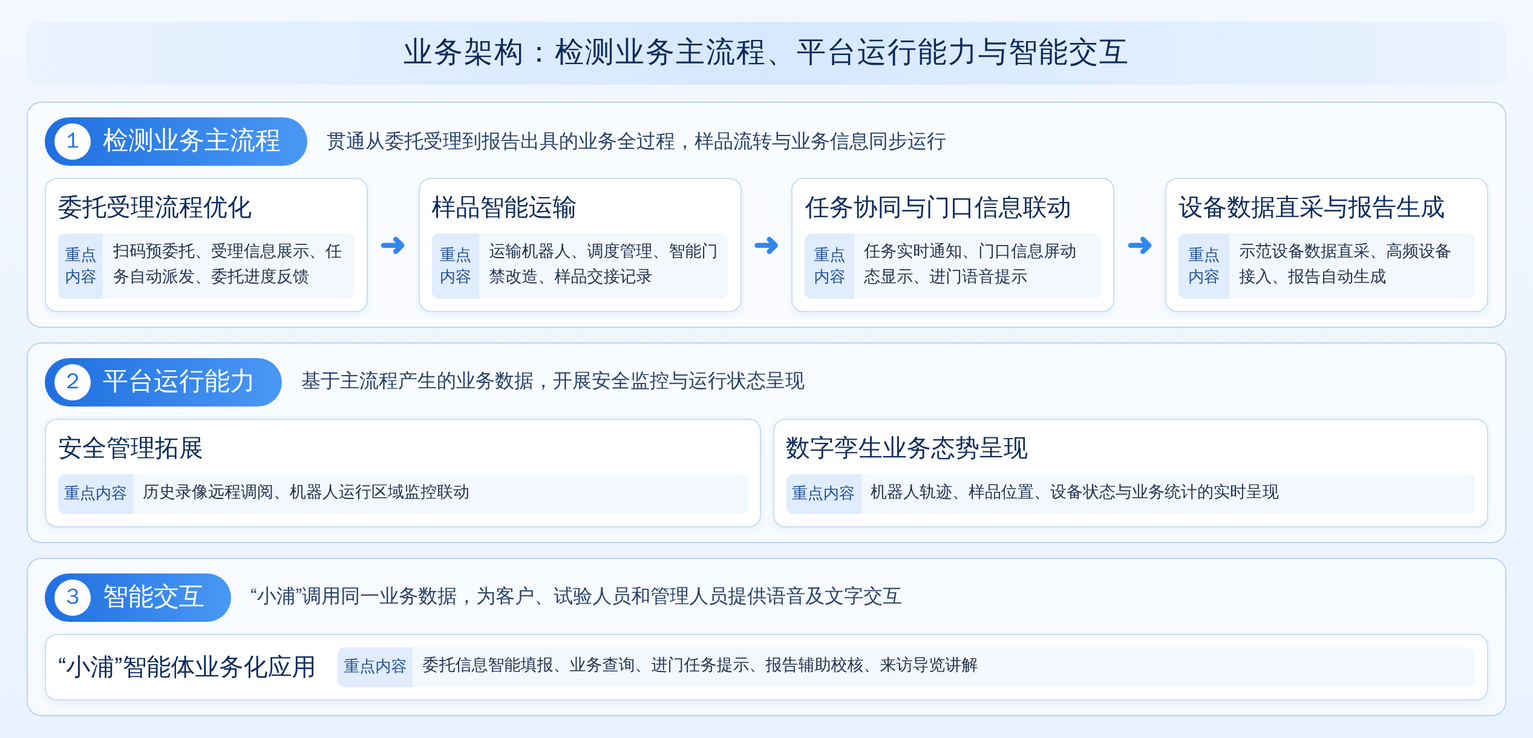
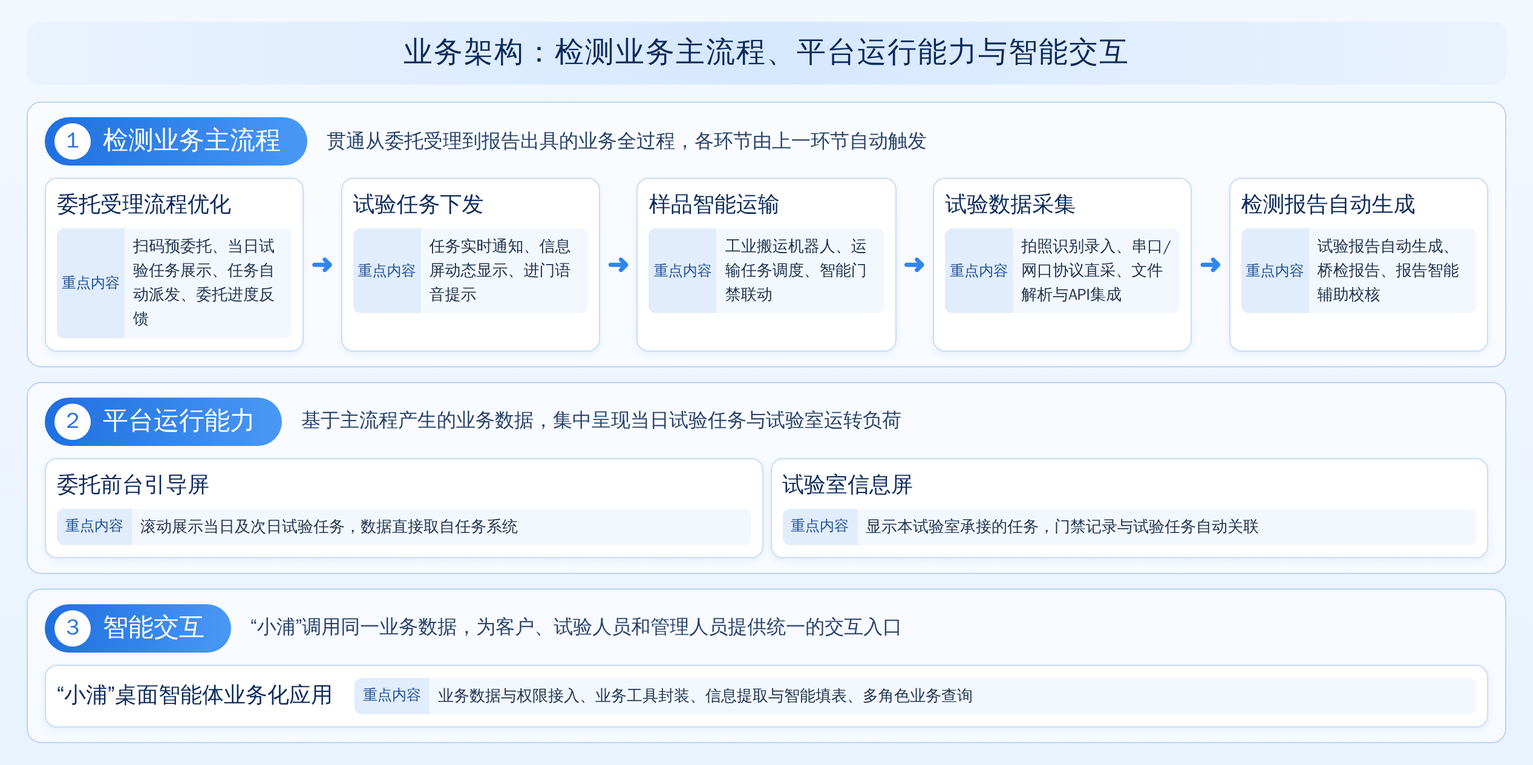
Pujiang plan v5: formal wording, report generation and Xiaopu expanded, X300B 100k each, new diagrams without digital twin, transport flow chart
Claude-Session: https://claude.ai/code/session_01DZcW8UzFAMq1wyGnVPG7By

Changed region(s): [[0.0312, 0.0311, 0.9665, 0.9344]]

diff --git a/浦江/c-浦江网联智慧试验室三期建设方案.md b/浦江/c-浦江网联智慧试验室三期建设方案.md
@@ -11,7 +11,7 @@
 
 随着公路工程建设、运营养护及质量监管持续向数字化、智能化方向发展，试验检测机构的业务管理模式正由单一业务系统的信息化应用，逐步转向覆盖委托受理、任务下发、样品流转、数据采集与报告编制全过程的协同管理。各业务环节之间信息与实物的衔接效率，已成为影响检测服务质量与管理水平的重要因素。
 
-浦江网联试验室前期已围绕试验室数字化与人工智能应用开展持续建设，建成智慧试验室平台，形成试验室数字孪生、委托系统、安全管理、化学品管理及资产管理等功能模块，部署门禁与分场所视频监控，并上线智能语音助手“小浦”，为本期建设奠定了平台与数据基础。
+浦江网联试验室前期已围绕试验室数字化与人工智能应用开展持续建设，建成智慧试验室平台，形成试验室全景展示、委托系统、安全管理、化学品管理及资产管理等功能模块，部署门禁与分场所视频监控，并上线智能语音助手“小浦”，为本期建设奠定了平台与数据基础。
 
 在此基础上，本期建设以“扫码委托—任务下发—样品运输—试验数据采集—检测报告生成”的业务主流程为主线，将检测报告自动生成作为核心建设内容，优先保障其资源投入；同时优化委托受理与任务下发流程，建立拍照识别与设备直采相结合的试验数据采集与确认机制，引入样品运输机器人实现样品的自主运输，并将实时业务数据接入“小浦”，形成从委托受理到报告出具的完整业务链条。
 
@@ -21,7 +21,7 @@
 
 经过前期建设，试验室在以下方面已形成可供本期利用的基础：
 
-**在平台建设方面**，已建成智慧试验室平台，集成试验室数字孪生、委托系统、安全管理、化学品管理与资产管理等功能模块。本期新增的功能将在该平台内统一集成。
+**在平台建设方面**，已建成智慧试验室平台，集成试验室全景展示、委托系统、安全管理、化学品管理与资产管理等功能模块。本期新增的功能将在该平台内统一集成。
 
 **在检测业务方面**，委托系统已覆盖委托登记、任务下达、数据录入至报告打印等主要环节，各检测项目已配置计算公式，并具备纸质原始记录智能识别与常规检测报告自动生成能力。本期在此基础上，重点建设试验数据采集与检测报告自动生成之间的自动衔接。
 
@@ -55,7 +55,7 @@
 | 平台运行能力 | 委托前台引导屏；试验室信息屏展示 | 集中呈现试验室当日试验任务与运行负荷 |
 | 智能交互 | “小浦”桌面智能体业务化应用 | 为客户、试验人员和管理人员提供统一的交互入口 |
 
-![[Pasted image 20261008070047.png]]
+![[c-图2-1-业务架构.png]]
 
 三部分之间的关系如下：检测业务主流程在运行中产生委托、任务、试验数据与报告等业务数据；平台运行能力基于这些数据进行可视化呈现；“小浦”调用同一业务数据，为不同角色的人员提供查询与辅助服务。
 
@@ -63,7 +63,7 @@
 
 项目技术架构按照感知层、网络层、平台层、应用层与交互展示层分层组织。
 
-![[Pasted image 20261008070104.png]]
+![[c-图2-2-技术架构.png]]
 
 感知层由拍照终端、试验仪器、边缘采集网关、搬运机器人与智能门禁组成，负责数据采集与实物运行；网络层提供试验室局域网与无线网络覆盖；平台层以智慧试验室平台为核心，在既有系统的基础上建设业务数据中枢，并升级“小浦”智能体；应用层承载委托受理、任务调度、试验数据采集与报告生成等业务应用；交互展示层面向客户、试验人员与管理人员提供小程序、引导屏、信息屏及桌面端等访问方式。
 
@@ -73,7 +73,7 @@
 
 本期业务流程覆盖单份委托从客户提交到报告交付的全过程，依次为扫码委托、任务下发、样品运输、试验数据采集与检测报告生成。各环节由上一环节自动触发，人员主要承担核验、确认与审核工作。
 
-![[Pasted image 20261008070111.png]]
+![[c-图2-3-业务流程.png]]
 
 本期生成的报告分为两类：一类是试验室内部完成的常规试验项目的试验报告，由试验数据经计算后按报告模板自动生成；另一类是以桥检报告为代表的专项检测报告，沿用现有成熟的编制框架，作为独立功能纳入现有功能模块使用。
 
@@ -83,23 +83,23 @@
 
 ### 3.1 委托受理流程优化
 
-委托业务在不改变主体流程的前提下，围绕减少客户填报工作量、呈现任务信息以及自动触发后续环节三个方面进行优化，使委托受理成为整个业务流程的数据起点。
+委托业务继续在委托系统中办理。本期在不改变委托业务主体流程的前提下，从委托信息的预先填报、当日试验任务的集中展示、检测任务的自动派发与委托进度的主动反馈四个方面优化受理流程，使委托受理成为整个业务流程的数据起点。
 
 **（1）扫码预委托**
 
-在委托前台设置预委托二维码，客户通过微信小程序填报委托单位、工程名称、检测项目等内容，系统自动带出客户历史填报的信息；客户也可拍摄纸质委托单，由“小浦”识别并预填表单。客户在到达委托前台前即可完成委托信息的结构化填报，现场填写与反复核对的时间相应缩短。
+在委托前台设置预委托二维码，客户通过微信小程序填报委托单位、工程名称、检测项目、样品信息及联系人等内容，系统依据客户的历史委托记录自动填充重复性信息。客户也可拍摄纸质委托单，由“小浦”识别单据内容并预填表单。预委托数据经委托前台人员核验后转为正式委托，委托信息的采集环节由此前移至客户到达之前，委托前台的现场工作由信息录入转为信息核验。
 
 **（2）当日试验任务展示**
 
-在委托前台新增引导屏，滚动展示当日试验任务信息，包括委托编号、检测项目、试验类型及任务状态；次日开展的试验按时间顺序同步排期展示。客户与试验人员可直观了解试验安排，管理人员也可通过引导屏集中掌握任务调度情况。
+在委托前台新增引导屏，滚动展示当日试验任务信息，包括委托编号、检测项目、试验类型及任务状态；次日开展的试验按时间顺序同步排期展示。引导屏的数据直接取自任务系统，与任务派发同步更新，用于集中呈现试验室当日的试验安排与运转负荷。
 
 **（3）任务自动派发**
 
-正式受理完成后，系统自动生成检测任务并推送至对应的试验人员，同时向机器人调度系统下发样品运输指令。受理环节与后续检测、运输环节由系统自动衔接，人工转录与口头通知的工作量相应减少，样品流转的等待时间缩短。
+正式受理完成后，系统依据委托中的检测项目自动生成检测任务，并推送至对应的试验人员，同时向机器人调度系统下发样品运输指令。检测任务与运输任务由受理动作统一触发，任务信息经系统直接传递，无需人工转录或逐项通知。
 
 **（4）委托进度反馈**
 
-检测过程中，系统通过小程序或短信向客户推送进度节点与报告出具通知；客户也可在小程序中向“小浦”查询预计完成时间。主动反馈机制减少了客户的电话询问，客户服务体验得到改善。
+系统依据委托状态的变化，在受理、检测、报告出具等节点，通过小程序或短信向客户自动推送进度信息；客户也可通过小程序向“小浦”查询委托的当前状态与预计完成时间。委托进度信息由此由人工答复转为系统推送与自助查询。
 
 ### 3.2 试验任务下发
 
@@ -107,29 +107,29 @@
 
 **（1）任务实时通知**
 
-系统派发任务后，试验人员移动端即收到任务信息，包括样品名称、检测项目和计划试验时间；样品运达试验室时，系统再次提醒接收。试验人员可随时掌握当日任务，任务响应与执行效率得到保障。
+系统派发任务后，试验人员移动端即时接收任务信息，包括样品名称、检测项目和计划试验时间，并按试验时间汇总当日任务；样品运达试验室时，系统再次推送接收提醒。
 
 **（2）信息屏动态显示**
 
-各试验室信息屏动态显示本试验室承接的任务信息；试验人员经身份核验进入试验室时，门禁记录与对应任务自动关联，实现人员进出与试验任务的对应管理。
+各试验室信息屏动态显示本试验室承接的任务信息；试验人员经身份核验进入试验室时，门禁记录与对应任务自动关联，形成人员进出与试验任务的对应记录。
 
 **（3）进门语音提示**
 
-试验人员进入试验室后，“小浦”以语音方式播报当前任务、所需样品数量及检测依据；试验人员可通过语音进一步询问操作要求或规范条文，翻查资料与切换系统的时间相应减少。
+试验人员进入试验室后，“小浦”以语音方式播报当前任务、所需样品数量及检测依据；试验人员可继续通过语音询问操作要求或规范条文，由“小浦”依据行业知识库答复，无需在操作过程中另行查阅资料。
 
 ### 3.3 样品智能运输系统
 
-本期配置工业搬运机器人，承担样品在委托前台与试验室之间的运输，并与智能门禁联动，实现样品的自主运输。选用iBen X300B-L工业搬运机器人，单台预算10万元，共配置2台，合计20万元。
+本期配置工业搬运机器人，承担样品在委托前台与试验室之间的运输，并与智能门禁联动，实现样品的自主运输。选用X300B工业搬运机器人，单台10万元，共配置2台，合计20万元。
 
 #### 3.3.1 核心设备与技术参数
 
-X300B-L采用双轮差速驱动与激光SLAM导航，适用于试验室通道及人机混行环境，主要技术指标如下表所示。
+X300B采用双轮差速驱动与激光SLAM导航，适用于试验室通道及人机混行环境，主要技术指标如下表所示。
 
 ![[Pasted image 20261008070319.png|411]]
 
 | 指标 | 参数 |
 | --- | --- |
-| 机器人型号 | iBen X300B-L |
+| 机器人型号 | X300B |
 | 额定运行速度（空载） | 1.5 m/s |
 | 自重 | 110 kg |
 | 举升高度 | 60 mm |
@@ -138,6 +138,10 @@ X300B-L采用双轮差速驱动与激光SLAM导航，适用于试验室通道及
 | 驱动方式 | 双轮差速 |
 
 #### 3.3.2 运输作业流程
+
+样品运输按下图所示流程执行，涉及委托前台人员、调度系统、运输机器人与试验人员四个角色。
+
+![[c-图3-2-运输作业流程.png]]
 
 1. 委托前台受理并生成运输任务后，调度系统派遣空闲机器人至装载位。
 2. 委托前台人员装载样品箱，扫码绑定任务并按下放行按键。
@@ -153,7 +157,7 @@ X300B-L采用双轮差速驱动与激光SLAM导航，适用于试验室通道及
 
 **（1）拍照智能识别录入**
 
-针对不具备数据接口的设备或仍需手工填写的原始记录，试验人员使用手机或移动终端对原始记录表、设备数显屏拍照上传，系统通过OCR识别提取试验数据，并写入对应的委托字段。系统对低置信度数据进行标红提示，由试验人员确认；经确认的数据同步纳入训练样本，用于持续迭代识别模型，使人工干预逐步减少。该方式不改变试验人员现行的记录习惯，同时降低了誊抄录入的差错率。
+针对不具备数据接口的设备或仍需手工填写的原始记录，试验人员使用手机或移动终端对原始记录表、设备数显屏拍照上传，系统通过OCR识别提取试验数据，并写入对应的委托字段。系统对低置信度数据进行标红提示，由试验人员确认；经确认的数据同步纳入训练样本，用于持续迭代识别模型，使人工干预逐步减少。该方式沿用试验人员现行的原始记录方式，以识别替代人工誊抄录入，避免了誊抄环节引入的数据差错。
 
 **（2）串口/网口协议直采**
 
@@ -161,39 +165,54 @@ X300B-L采用双轮差速驱动与激光SLAM导航，适用于试验室通道及
 
 **（3）文件解析与API集成**
 
-对于自带上位机软件且可导出Excel、CSV格式结果的仪器，开发数据解析组件，自动读取试验结果文件并匹配关键数值；对于开放API接口的仪器，通过HTTP、MQTT等标准接口直接对接。多种采集方式相互补充，使检测数据保持原始性与可追溯性。
+对于自带上位机软件且可导出Excel、CSV格式结果的仪器，开发数据解析组件，自动读取试验结果文件并匹配关键数值；对于开放API接口的仪器，通过HTTP、MQTT等标准接口直接对接。各采集方式的数据均以委托编号、样品编号与任务关联，并保留原始文件与采集时间，保证检测数据可追溯。
 
 ### 3.5 检测报告自动生成
 
-检测报告自动生成是本期的核心建设内容。系统依据试验数据与报告模板自动生成报告，缩短报告出具周期。
+检测报告自动生成是本期的核心建设内容。试验数据经采集与确认后，系统依次完成结果计算、模板匹配、初稿生成、辅助校核与审核签发，报告编制由人工整理数据转为系统生成、人员审核。报告分为试验报告与专项检测报告两类，分别采用不同的实现方式。
 
 **（1）试验报告自动生成**
 
-试验数据经直采或确认提交后，系统调用既定计算公式完成计算，匹配现行报告模板，生成包含数据图表与排版格式的试验报告初稿；报告经试验人员核对、审核人员审核后签发，并推送至客户。该功能优先覆盖业务量最大的常规试验，由于报告数据直接取自原始数据，原始数据与报告数据的一致性得到保证。
+试验报告面向试验室内部完成的常规试验项目。试验数据经直采或人工确认提交后，系统按以下步骤生成报告：
 
-**（2）专项检测报告（桥检报告）**
+1. 数据汇聚：按委托编号与样品编号汇聚该委托下各检测项目的试验数据，包括原始数值与试验曲线。
+2. 结果计算：调用委托系统已配置的检测项目计算公式完成检测结果计算，并依据检测依据中的判定规则与标准限值给出符合性判定。
+3. 模板匹配：按检测项目匹配现行报告模板，将委托信息、试验数据、计算结果与数据图表填入模板对应字段，生成Word、PDF格式的试验报告初稿。
+4. 审核签发：初稿推送至试验人员核对、审核人员审核，按现行质量管理程序签发后推送至客户。
 
-桥梁检测等外业专项报告的业务逻辑具有特殊性，系统沿用其成熟的独立编制框架，并在平台中设置专门的功能入口，不改变其现有作业方式，可直接投入使用，避免重复开发。
+报告数据直接取自采集的原始数据，数据在传递过程中不经人工转录，报告数据与原始数据保持一致。实施时优先覆盖业务量最大的常规试验项目，首批覆盖10类，经流程验证后按同一机制扩展至其他项目。
 
-**（3）报告智能辅助校核**
+**（2）报告模板与计算规则配置**
 
-报告初稿生成后，“小浦”在后台对报告进行辅助校核：比对原始数据与报告结果的一致性，复核检测指标是否超出标准限值，并向审核人员提示潜在错误，提升报告质量。
+报告自动生成以模板与规则的规范配置为前提。本期按检测项目建立“报告模板—数据字段—数据来源—计算公式”的对应关系：报告模板中的每一个数据项，均对应唯一的数据来源字段与计算规则。检测依据或标准发生更新时，仅调整对应的模板与规则配置，不改动生成程序；同时保留模板的版本记录，使历史报告可按出具时的模板版本复现。
+
+**（3）专项检测报告（桥检报告）**
+
+桥梁检测等外业专项报告的数据来源于现场检测，其业务逻辑与试验室内部检测流程不同，且已有成熟的独立编制框架。本期沿用该框架，将其封装为平台中的独立功能入口，纳入现有功能模块使用；不要求其适配试验室内部的任务与数据流程，也不改变其现有作业方式。
+
+**（4）报告智能辅助校核**
+
+报告初稿生成后，“小浦”在审核前对初稿进行辅助校核，校核内容包括三个方面：一是数据一致性校核，将报告中的数据逐项与采集的原始数据比对；二是计算复核，依据计算公式对检测结果重新计算并与报告结果比对；三是限值符合性校核，将检测结果与标准限值、判定依据比对，核对判定结论是否正确。校核发现的差异在报告对应位置标注并给出依据，校核意见供审核人员参考，报告的最终结论由审核人员确认。
 
 ### 3.6 “小浦”桌面智能体业务化应用
 
-依托业务数据中枢汇聚的实时数据，本期以桌面端与移动端智能体的形式，将“小浦”由知识问答助手升级为参与业务流转的业务智能体。
+“小浦”已具备行业知识问答、检测任务信息查询和部分设备控制能力。本期业务流程投入运行后，委托、任务、样品、试验数据与报告等业务数据统一汇聚于业务数据中枢。本期以桌面端与移动端智能体的形式，使“小浦”接入上述业务数据并具备业务操作能力，由知识问答助手升级为参与业务流转的业务智能体。
 
 #### 3.6.1 业务数据与权限接入
 
-为“小浦”开放结构化业务数据的查询接口，并按提问人员的账号角色进行权限过滤；同时将高频业务操作封装为工具供大模型调用。“小浦”由此能够按指令执行业务操作，并确保业务数据不被越权访问。
+为“小浦”开放结构化业务数据的查询接口，查询范围覆盖委托、任务、样品、试验数据与报告。数据访问按提问人员的账号角色进行权限过滤：客户仅可查询本单位的委托信息，试验人员可查询所承担的任务，管理人员可查询全部业务统计数据。智能体的每次数据查询与业务操作均形成调用记录，供事后追溯。
 
-#### 3.6.2 信息提取与智能填表
+#### 3.6.2 业务工具封装
 
-客户提供格式不一的纸质委托单时，“小浦”调用视觉识别模型提取委托单位、联系人、项目明细等关键信息，并映射至系统的标准表单，客户确认后即可提交，填报工作量相应减少。
+将预委托填报、任务查询、委托进度查询、报告校核等高频业务操作封装为大模型可调用的工具，由“小浦”依据用户的自然语言指令选择并调用相应工具。涉及业务数据写入的操作，如提交委托、确认试验数据，须经相关人员确认后执行，智能体不直接变更业务数据。
 
-#### 3.6.3 多角色业务查询
+#### 3.6.3 信息提取与智能填表
 
-不同角色的人员可通过自然语言进行业务查询：客户可询问“某批沥青样品当前处于哪个环节、何时出具报告”；试验人员可询问“今天下午还有几批钢筋拉伸试验”；管理人员可询问“今日超时未完成的试验任务”。“小浦”跨模块获取数据并汇总答复，减少了逐个模块查询报表的工作量。
+客户提供格式不一的纸质委托单时，“小浦”调用视觉识别模型提取委托单位、联系人、检测项目、样品信息等关键内容，并映射至系统的标准委托表单。识别结果以预填形式呈现，客户核对确认后提交；识别置信度较低的字段在表单中标注，提示客户重点核对。
+
+#### 3.6.4 多角色业务查询
+
+不同角色的人员可通过自然语言查询业务信息，“小浦”跨模块获取数据后汇总答复。客户可询问“某批沥青样品当前处于哪个环节、何时出具报告”；试验人员可询问“今天下午还有几批钢筋拉伸试验”；管理人员可询问“今日超时未完成的试验任务”。各角色经统一入口完成查询，无需分别进入各业务模块检索数据或汇总报表。
 
 ---
 
@@ -214,33 +233,30 @@ X300B-L采用双轮差速驱动与激光SLAM导航，适用于试验室通道及
 
 ### 4.2 验收指标
 
-| 序号 | 验收指标 |
-| --- | --- |
-| 1 | 以真实委托完整运行“扫码委托—任务下发—试验数据采集—检测报告生成”全流程，设备直采数据无需人工二次录入 |
-| 2 | 受理完成后1分钟内，试验人员收到任务通知，委托前台引导屏与试验室信息屏同步更新 |
-| 3 | 拍照识别数据与设备直采数据能够准确匹配对应任务并自动入库 |
-| 4 | 常规试验项目的试验报告由系统自动生成初稿，并由“小浦”给出辅助校核结果 |
-| 5 | 桥检报告模块集成后，原有出具流程可正常使用 |
-| 6 | “小浦”能够正确答复委托进度、当前任务等业务查询 |
-| 7 | X300B-L运输机器人试运行期间，规划路线内的送达准确率不低于95% |
+| 序号  | 验收指标                                                 |
+| --- | ---------------------------------------------------- |
+| 1   | 以真实委托完整运行“扫码委托—任务下发—试验数据采集—检测报告生成”全流程，设备直采数据无需人工二次录入 |
+| 2   | 受理完成后1分钟内，试验人员收到任务通知，委托前台引导屏与试验室信息屏同步更新              |
+| 3   | 拍照识别数据与设备直采数据能够准确匹配对应任务并自动入库                         |
+| 4   | 常规试验项目的试验报告由系统自动生成初稿，并由“小浦”给出辅助校核结果                  |
+| 5   | 桥检报告模块集成后，原有出具流程可正常使用                                |
+| 6   | “小浦”能够正确答复委托进度、当前任务等业务查询                             |
+| 7   | X300B运输机器人试运行期间，规划路线内的送达准确率不低于90%                  |
 
 ---
 
 ## 五、费用测算
 
-本期项目整体报价合计80万元，分为硬件报价与软件报价两部分：硬件包括样品运输机器人、智能门禁、引导屏与边缘采集网关；软件包括委托受理、任务下发、试验数据采集、检测报告自动生成、“小浦”智能体升级及系统实施服务。大模型调用费用计入软件报价，不单独采购高成本算力硬件。报价仅对应本期新增建设内容，前期已交付的功能不重复计入。
+本期项目整体报价分为硬件报价与软件报价两部分：硬件包括样品运输机器人、智能门禁、引导屏与边缘采集网关；软件包括委托受理、任务下发、试验数据采集、检测报告自动生成、“小浦”智能体升级及系统实施服务。大模型调用费用计入软件报价，不单独采购高成本算力硬件。
 
 ### 5.1 硬件报价清单
 
 | 名称 | 序号 | 模块名称 | 项目特征与需求描述 | 单位 | 工程量 | 单价（元） | 合价（元） | 备注 |
 | --- | --- | --- | --- | --- | --- | --- | --- | --- |
-| 样品运输设备 | 1 | 样品运输机器人整机 | iBen X300B-L工业搬运机器人，双轮差速驱动，激光SLAM导航，举升高度60 mm，导航到点精度<±20 mm | 台 | 2 | 80,000 | 160,000 | 含电池 |
-| 样品运输设备 | 2 | 自动充电桩 | 机器人配套自动回充桩，支持低电量自动返航充电 | 台 | 2 | 5,000 | 10,000 | 含安装 |
-| 样品运输设备 | 3 | 机器人调度管理系统 | 多机任务分配、路径规划、交通管理与运行状态监控，提供与平台对接的接口 | 套 | 1 | 20,000 | 20,000 | 软件授权 |
-| 样品运输设备 | 4 | 现场建图与部署调试 | 运输路线勘查、SLAM地图构建、停靠点设置、装载位标定与联调测试 | 项 | 1 | 10,000 | 10,000 | |
-| 门禁与显示设备 | 5 | 智能门禁联动改造 | 运输路线上的试验室门体加装联动控制器与电动开门机，具备开门、关门及到位信号输出 | 扇 | 4 | 6,000 | 24,000 | 含安装；数量以现场勘查为准 |
-| 门禁与显示设备 | 6 | 委托前台引导屏 | 55英寸商用显示屏，用于滚动展示当日及次日试验任务 | 台 | 1 | 8,000 | 8,000 | 含支架与安装 |
-| 数据采集设备 | 7 | 边缘采集网关 | 支持RS232/RS485串口与以太网接口，用于采集试验设备通信数据 | 台 | 4 | 3,000 | 12,000 | 数量以接入设备为准 |
+| 样品运输设备 | 1 | 样品运输机器人 | X300B工业搬运机器人，双轮差速驱动，激光SLAM导航，举升高度60 mm，导航到点精度<±20 mm；含电池、自动回充桩、调度管理系统授权及现场建图调试 | 台 | 2 | 100,000 | 200,000 | 单台10万元 |
+| 门禁与显示设备 | 2 | 运输机器人联动改造 | 运输路线上的试验室门体加装联动控制器与电动开门机，具备开门、关门及到位信号输出 | 扇 | 4 | 6,000 | 24,000 | 含安装；数量以现场勘查为准 |
+| 门禁与显示设备 | 3 | 委托前台引导屏 | 55英寸商用显示屏，用于滚动展示当日及次日试验任务 | 台 | 1 | 8,000 | 8,000 | 含支架与安装 |
+| 数据采集设备 | 4 | 边缘采集网关 | 支持RS232/RS485串口与以太网接口，用于采集试验设备通信数据 | 台 | 4 | 3,000 | 12,000 | 数量以接入设备为准 |
 | 硬件小计 | | | | | | | 244,000 | |
 
 ### 5.2 软件报价清单
@@ -277,11 +293,3 @@ X300B-L采用双轮差速驱动与激光SLAM导航，适用于试验室通道及
 | 实施服务 | 28 | 系统部署与联调 | 系统部署、配置、全流程联调与试运行保障 | 项 | 1 | 20,000 | 20,000 | |
 | 实施服务 | 29 | 培训服务 | 面向委托前台人员、试验人员与管理人员的操作培训 | 次 | 2 | 5,000 | 10,000 | |
 | 软件小计 | | | | | | | 556,000 | |
-
-### 5.3 报价汇总
-
-| 项目 | 合价（元） |
-| --- | --- |
-| 硬件报价小计 | 244,000 |
-| 软件报价小计 | 556,000 |
-| 合计 | 800,000 |

diff --git a/CLAUDE.md b/CLAUDE.md
@@ -16,3 +16,11 @@
 - 用"智能门禁"，不用"自动门"；客户受理处称"前台"。
 - 参考资料中只有黄总的方案（《浦江网联试验室智能化提升项目（三期）初期方案》）可作写法参考；其他 Word 方案为反面教材，不得模仿其语言。
 - 方案以 md 为准，用户自行复制到 Word。
+
+## 补充约定（2026-10）
+
+- 不再使用"数字孪生"概念；平台既有的该模块统一称"试验室全景展示"，方案中不再建设相关内容。
+- 运输机器人型号只写"X300B"，不写品牌；单台10万元，共2台，合计20万元。
+- 效益类语句须写明机制（做什么、如何做、产生什么数据或结果），不使用"得到改善""得到保障""相应缩短""减少了……工作量"等空泛结论句。
+- 3.5检测报告自动生成、3.6"小浦"桌面智能体为本期重点章节，篇幅应充分。
+- 方案配图放在 `浦江/` 目录，以 `c-图…` 命名；md 中用 `![[文件名]]` 引用。
